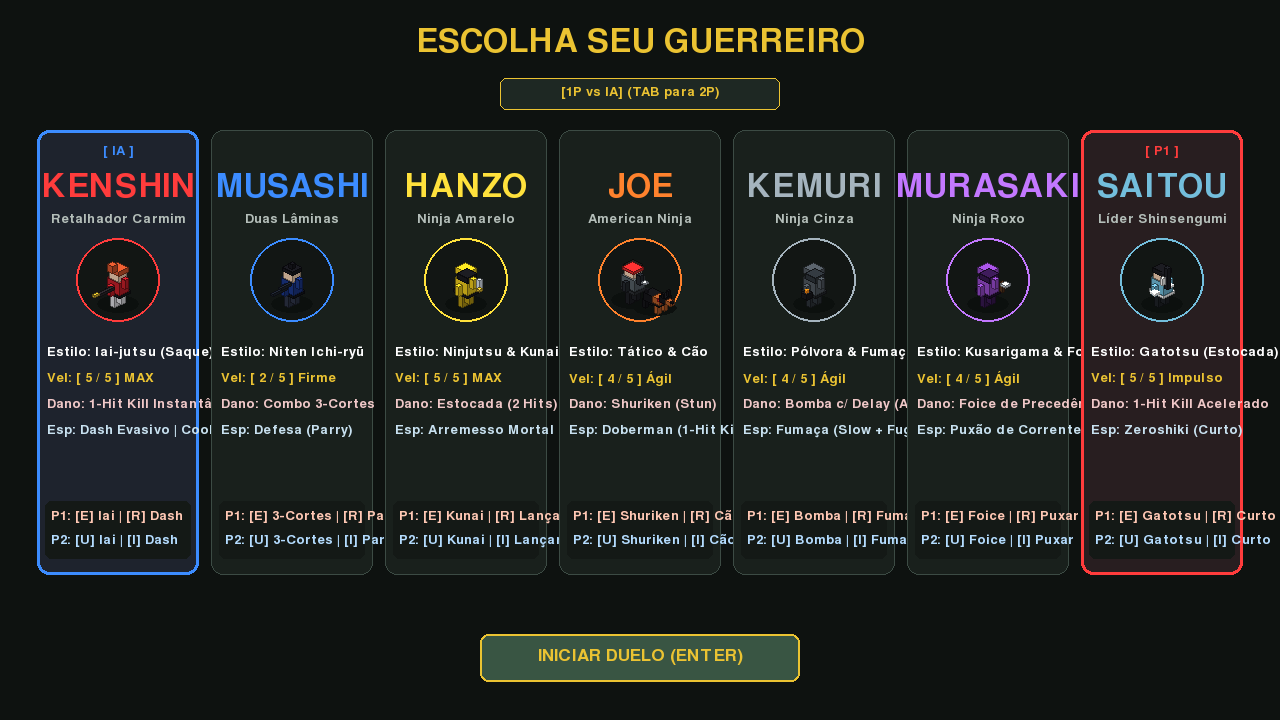
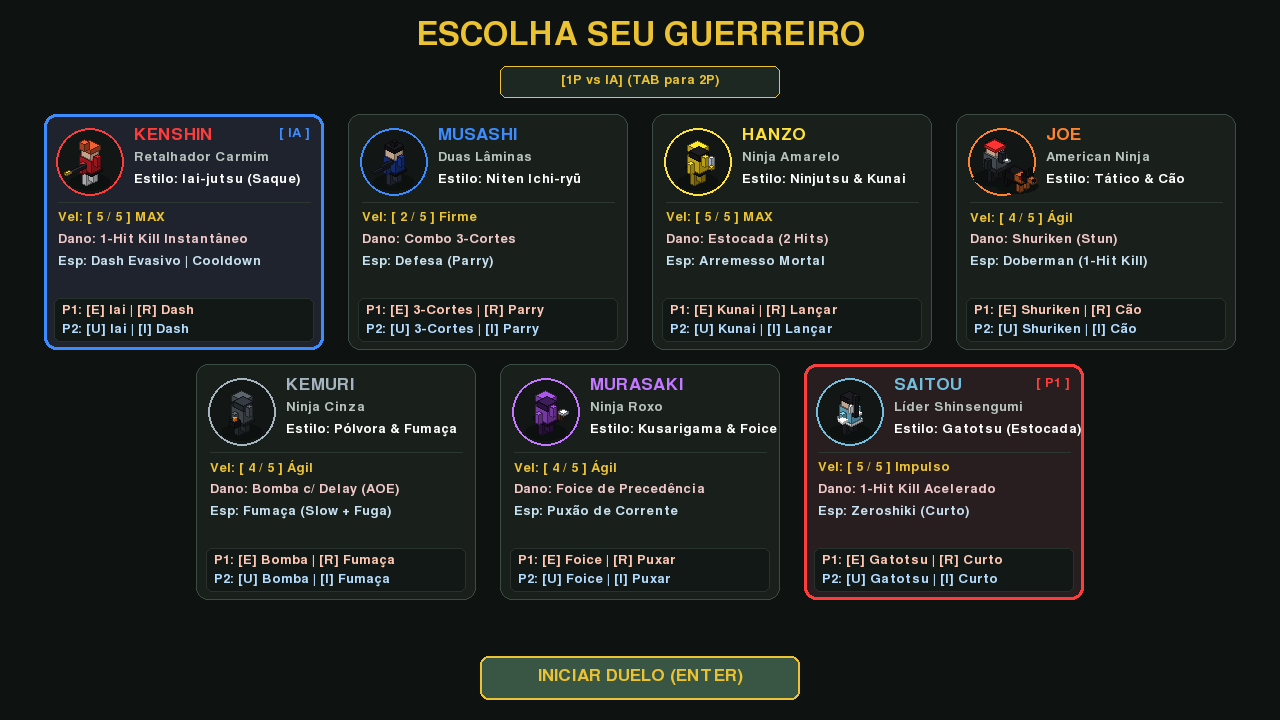
Adjust character select grid to 2 rows to eliminate text overflow and add 2D navigation

Changed region(s): [[0.0312, 0.0306, 1.0, 0.8556], [0.375, 0.8556, 0.625, 0.9778]]

diff --git a/src/ui/character_select.py b/src/ui/character_select.py
@@ -15,9 +15,20 @@ from src.config import (
     CHAR_KENSHIN, CHAR_MUSASHI, CHAR_NINJA, CHAR_AMERICAN, CHAR_GRAY, CHAR_PURPLE
 )
 
+from src.isometric.iso_math import world_to_iso
+from src.entities.voxel_models import render_voxel_humanoid, render_voxel_doberman
+
+class PreviewCamera:
+    def __init__(self, cx, cy):
+        self.cx = cx
+        self.cy = cy
+    def apply(self, wx, wy, wz=0.0):
+        ix, iy = world_to_iso(wx, wy, wz)
+        return int(self.cx + ix), int(self.cy + iy)
+
 class CharacterSelectScreen:
     def __init__(self):
-        self.p1_choice_idx = 0  # 0: Kenshin, 1: Musashi, 2: Ninja, 3: American Ninja, 4: Ninja Cinza
+        self.p1_choice_idx = 0  # 0: Kenshin, 1: Musashi, 2: Ninja, 3: American Ninja, 4: Ninja Cinza, 5: Murasaki, 6: Saitou
         self.p2_choice_idx = 4  # Padrão: Ninja Cinza
         self.p1_ready = False
         self.p2_ready = False
@@ -118,10 +129,21 @@ class CharacterSelectScreen:
             if event.key == pygame.K_TAB:
                 self.vs_ai = not self.vs_ai
 
+            # Navegação P1 em grade 2D (Linha 1: 0..3, Linha 2: 4..6)
             if event.key in (pygame.K_a, pygame.K_LEFT):
                 self.p1_choice_idx = (self.p1_choice_idx - 1) % len(self.characters)
             elif event.key in (pygame.K_d, pygame.K_RIGHT):
                 self.p1_choice_idx = (self.p1_choice_idx + 1) % len(self.characters)
+            elif event.key in (pygame.K_w, pygame.K_UP):
+                if self.p1_choice_idx >= 4:
+                    self.p1_choice_idx -= 4
+                else:
+                    self.p1_choice_idx = min(len(self.characters) - 1, self.p1_choice_idx + 4)
+            elif event.key in (pygame.K_s, pygame.K_DOWN):
+                if self.p1_choice_idx < 4:
+                    self.p1_choice_idx = min(len(self.characters) - 1, self.p1_choice_idx + 4)
+                else:
+                    self.p1_choice_idx -= 4
             elif event.key in (pygame.K_e, pygame.K_SPACE, pygame.K_RETURN):
                 return True
 
@@ -137,11 +159,11 @@ class CharacterSelectScreen:
                 if rect.collidepoint(mx, my):
                     self.p1_choice_idx = idx
 
-            start_btn = pygame.Rect(SCREEN_WIDTH // 2 - 150, SCREEN_HEIGHT - 95, 300, 48)
+            start_btn = pygame.Rect(SCREEN_WIDTH // 2 - 160, SCREEN_HEIGHT - 64, 320, 44)
             if start_btn.collidepoint(mx, my):
                 return True
 
-            ai_btn = pygame.Rect(SCREEN_WIDTH // 2 - 140, 78, 280, 32)
+            ai_btn = pygame.Rect(SCREEN_WIDTH // 2 - 140, 66, 280, 32)
             if ai_btn.collidepoint(mx, my):
                 self.vs_ai = not self.vs_ai
 
@@ -160,29 +182,40 @@ class CharacterSelectScreen:
 
         # 1. Título
         title_surf = font_large.render("ESCOLHA SEU GUERREIRO", True, COLOR_GOLD)
-        surface.blit(title_surf, (SCREEN_WIDTH // 2 - title_surf.get_width() // 2, 25))
+        surface.blit(title_surf, (SCREEN_WIDTH // 2 - title_surf.get_width() // 2, 18))
 
         # 2. Botão Modo de Jogo
-        ai_btn = pygame.Rect(SCREEN_WIDTH // 2 - 140, 78, 280, 32)
+        ai_btn = pygame.Rect(SCREEN_WIDTH // 2 - 140, 66, 280, 32)
         pygame.draw.rect(surface, (30, 40, 35), ai_btn, border_radius=6)
         pygame.draw.rect(surface, COLOR_GOLD, ai_btn, 1, border_radius=6)
         mode_text = "[1P vs IA] (TAB para 2P)" if self.vs_ai else "[2 JOGADORES] (TAB para IA)"
         mode_surf = font_small.render(mode_text, True, COLOR_GOLD)
         surface.blit(mode_surf, (ai_btn.centerx - mode_surf.get_width() // 2, ai_btn.y + 7))
 
-        # 3. Sete Cards de Personagens
-        card_w = 162
-        card_h = 445
-        spacing = 12
-        num_cards = len(self.characters)
-        start_x = (SCREEN_WIDTH - (card_w * num_cards + spacing * (num_cards - 1))) // 2
-        start_y = 130
+        # 3. Grade em Duas Linhas (4 cards na Linha 1, 3 cards centralizados na Linha 2)
+        card_w = 280
+        card_h = 236
+        spacing_x = 24
+        spacing_y = 14
 
+        total_w_row1 = 4 * card_w + 3 * spacing_x
+        start_x_row1 = (SCREEN_WIDTH - total_w_row1) // 2
+
+        total_w_row2 = 3 * card_w + 2 * spacing_x
+        start_x_row2 = (SCREEN_WIDTH - total_w_row2) // 2
+
+        start_y = 114
         self.card_rects.clear()
 
         for idx, char_info in enumerate(self.characters):
-            cx = start_x + idx * (card_w + spacing)
-            rect = pygame.Rect(cx, start_y, card_w, card_h)
+            if idx < 4:
+                cx = start_x_row1 + idx * (card_w + spacing_x)
+                cy = start_y
+            else:
+                cx = start_x_row2 + (idx - 4) * (card_w + spacing_x)
+                cy = start_y + card_h + spacing_y
+
+            rect = pygame.Rect(cx, cy, card_w, card_h)
             self.card_rects.append(rect)
 
             is_p1 = (self.p1_choice_idx == idx)
@@ -208,43 +241,29 @@ class CharacterSelectScreen:
             pygame.draw.rect(surface, bg_color, rect, border_radius=12)
             pygame.draw.rect(surface, border_color, rect, border_width, border_radius=12)
 
-            # Badges P1 / P2
-            badge_y = rect.y + 14
-            if is_p1:
+            # Badges P1 / P2 no topo direito
+            badge_y = rect.y + 12
+            if is_p1 and is_p2:
                 p1_badge = font_small.render("[ P1 ]", True, COLOR_RED_AURA)
-                surface.blit(p1_badge, (rect.centerx - p1_badge.get_width() // 2 - (24 if is_p2 else 0), badge_y))
-            if is_p2:
-                label_p2 = "[ IA ]" if self.vs_ai else "[ P2 ]"
-                p2_badge = font_small.render(label_p2, True, COLOR_BLUE_AURA)
-                surface.blit(p2_badge, (rect.centerx - p2_badge.get_width() // 2 + (24 if is_p1 else 0), badge_y))
+                p2_label = "[ IA ]" if self.vs_ai else "[ P2 ]"
+                p2_badge = font_small.render(p2_label, True, COLOR_BLUE_AURA)
+                surface.blit(p2_badge, (rect.right - p2_badge.get_width() - 14, badge_y))
+                surface.blit(p1_badge, (rect.right - p2_badge.get_width() - p1_badge.get_width() - 20, badge_y))
+            elif is_p1:
+                p1_badge = font_small.render("[ P1 ]", True, COLOR_RED_AURA)
+                surface.blit(p1_badge, (rect.right - p1_badge.get_width() - 14, badge_y))
+            elif is_p2:
+                p2_label = "[ IA ]" if self.vs_ai else "[ P2 ]"
+                p2_badge = font_small.render(p2_label, True, COLOR_BLUE_AURA)
+                surface.blit(p2_badge, (rect.right - p2_badge.get_width() - 14, badge_y))
 
-            # Nome e Título
-            name_surf = font_large.render(char_info["name"], True, char_info["color"])
-            surface.blit(name_surf, (rect.centerx - name_surf.get_width() // 2, rect.y + 40))
+            # Retrato Voxel 3D do Personagem (no topo esquerdo da carta)
+            portrait_cx = rect.x + 46
+            portrait_cy = rect.y + 48
+            pygame.draw.circle(surface, (18, 22, 20), (portrait_cx, portrait_cy), 34)
+            pygame.draw.circle(surface, char_info["color"], (portrait_cx, portrait_cy), 34, 2)
 
-            title_s = font_small.render(char_info["title"], True, (180, 190, 185))
-            surface.blit(title_s, (rect.centerx - title_s.get_width() // 2, rect.y + 82))
-
-            # Retrato Voxel 3D do Personagem
-            portrait_center_x = rect.centerx
-            portrait_center_y = rect.y + 150
-
-            pygame.draw.circle(surface, (18, 22, 20), (portrait_center_x, portrait_center_y), 42)
-            pygame.draw.circle(surface, char_info["color"], (portrait_center_x, portrait_center_y), 42, 2)
-
-            # Câmera local de pré-visualização isométrica
-            from src.isometric.iso_math import world_to_iso
-            from src.entities.voxel_models import render_voxel_humanoid, render_voxel_doberman
-
-            class PreviewCamera:
-                def __init__(self, cx, cy):
-                    self.cx = cx
-                    self.cy = cy
-                def apply(self, wx, wy, wz=0.0):
-                    ix, iy = world_to_iso(wx, wy, wz)
-                    return int(self.cx + ix), int(self.cy + iy)
-
-            cam = PreviewCamera(portrait_center_x, portrait_center_y + 24)
+            cam = PreviewCamera(portrait_cx, portrait_cy + 20)
             char_id = char_info["id"]
 
             if char_id == CHAR_KENSHIN:
@@ -263,32 +282,46 @@ class CharacterSelectScreen:
             elif char_id == CHAR_SAITOU:
                 render_voxel_humanoid(surface, cam, 0, 0, 0, 1.0, 0.0, "IDLE", 0.0, True, char_type="saitou")
 
-            # Atributos
-            stats_y = rect.y + 215
-            line1 = font_small.render(f"Estilo: {char_info['style']}", True, COLOR_WHITE)
-            line2 = font_small.render(f"Vel: {char_info['speed_stars']}", True, COLOR_GOLD)
-            line3 = font_small.render(f"Dano: {char_info['damage_desc']}", True, (240, 200, 200))
-            line4 = font_small.render(f"Esp: {char_info['special_desc']}", True, (200, 225, 240))
+            # Nome, Título e Estilo ao lado do Retrato
+            text_left = rect.x + 90
+            name_surf = font_mid.render(char_info["name"], True, char_info["color"])
+            surface.blit(name_surf, (text_left, rect.y + 12))
 
-            surface.blit(line1, (rect.x + 10, stats_y))
-            surface.blit(line2, (rect.x + 10, stats_y + 26))
-            surface.blit(line3, (rect.x + 10, stats_y + 52))
-            surface.blit(line4, (rect.x + 10, stats_y + 78))
+            title_s = font_small.render(char_info["title"], True, (185, 195, 190))
+            surface.blit(title_s, (text_left, rect.y + 36))
 
-            # Controles
-            ctrl_box = pygame.Rect(rect.x + 8, rect.bottom - 74, card_w - 16, 58)
-            pygame.draw.rect(surface, (20, 25, 22), ctrl_box, border_radius=6)
+            style_s = font_small.render(f"Estilo: {char_info['style']}", True, COLOR_WHITE)
+            surface.blit(style_s, (text_left, rect.y + 58))
+
+            # Linha divisória sutil
+            sep_y = rect.y + 88
+            pygame.draw.line(surface, (45, 55, 50), (rect.x + 14, sep_y), (rect.right - 14, sep_y), 1)
+
+            # Atributos e Estatísticas em largura total (sem truncar texto)
+            stats_y = rect.y + 96
+            line_vel = font_small.render(f"Vel: {char_info['speed_stars']}", True, COLOR_GOLD)
+            line_dmg = font_small.render(f"Dano: {char_info['damage_desc']}", True, (240, 200, 200))
+            line_esp = font_small.render(f"Esp: {char_info['special_desc']}", True, (200, 225, 240))
+
+            surface.blit(line_vel, (rect.x + 14, stats_y))
+            surface.blit(line_dmg, (rect.x + 14, stats_y + 22))
+            surface.blit(line_esp, (rect.x + 14, stats_y + 44))
+
+            # Caixa de Comandos / Teclas
+            ctrl_box = pygame.Rect(rect.x + 10, rect.bottom - 52, card_w - 20, 44)
+            pygame.draw.rect(surface, (18, 24, 21), ctrl_box, border_radius=6)
+            pygame.draw.rect(surface, (40, 50, 45), ctrl_box, 1, border_radius=6)
             p1_key_label = font_small.render(f"P1: {char_info['keys_p1']}", True, (255, 200, 180))
             p2_key_label = font_small.render(f"P2: {char_info['keys_p2']}", True, (180, 220, 255))
-            surface.blit(p1_key_label, (ctrl_box.x + 6, ctrl_box.y + 8))
-            surface.blit(p2_key_label, (ctrl_box.x + 6, ctrl_box.y + 32))
+            surface.blit(p1_key_label, (ctrl_box.x + 8, ctrl_box.y + 5))
+            surface.blit(p2_key_label, (ctrl_box.x + 8, ctrl_box.y + 24))
 
         # 4. Botão INICIAR DUELO
-        start_btn = pygame.Rect(SCREEN_WIDTH // 2 - 160, SCREEN_HEIGHT - 86, 320, 48)
+        start_btn = pygame.Rect(SCREEN_WIDTH // 2 - 160, SCREEN_HEIGHT - 64, 320, 44)
         pulse = (math.sin(self.anim_timer * 4.0) + 1.0) * 0.5
         btn_bg = (50 + int(pulse * 15), 75 + int(pulse * 20), 60 + int(pulse * 15))
         pygame.draw.rect(surface, btn_bg, start_btn, border_radius=8)
         pygame.draw.rect(surface, COLOR_GOLD, start_btn, 2, border_radius=8)
 
         st_text = font_mid.render("INICIAR DUELO (ENTER)", True, COLOR_GOLD)
-        surface.blit(st_text, (start_btn.centerx - st_text.get_width() // 2, start_btn.y + 13))
+        surface.blit(st_text, (start_btn.centerx - st_text.get_width() // 2, start_btn.y + 11))

diff --git a/test_game.py b/test_game.py
@@ -28,13 +28,22 @@ def test_complete_roster():
     pygame.font.init()
     screen = pygame.display.set_mode((1280, 720))
 
-    # 1. Testar Tela de Seleção com 7 Guerreiros
+    # 1. Testar Tela de Seleção com 7 Guerreiros e Grade 2D (UP/DOWN/LEFT/RIGHT)
     select_screen = CharacterSelectScreen()
     assert len(select_screen.characters) == 7
     select_screen.p1_choice_idx = 6  # Hajime Saitou
     p1_id, p2_id, vs_ai = select_screen.get_selected_characters()
     assert p1_id == CHAR_SAITOU
-    print("Teste 1: Tela de Seleção com 7 guerreiros (incluindo Hajime Saitou) OK!")
+
+    # Navegação vertical entre linhas da grade 2D
+    ev_up = pygame.event.Event(pygame.KEYDOWN, key=pygame.K_UP)
+    select_screen.handle_event(ev_up)
+    assert select_screen.p1_choice_idx == 2  # Saitou (idx 6) -> Hanzo (idx 2)
+
+    ev_down = pygame.event.Event(pygame.KEYDOWN, key=pygame.K_DOWN)
+    select_screen.handle_event(ev_down)
+    assert select_screen.p1_choice_idx == 6  # Hanzo (idx 2) -> Saitou (idx 6)
+    print("Teste 1: Tela de Seleção com 7 guerreiros e navegação 2D em 2 linhas OK!")
 
     game_map = GameMap()
     camera = Camera(11.0, 11.0)
